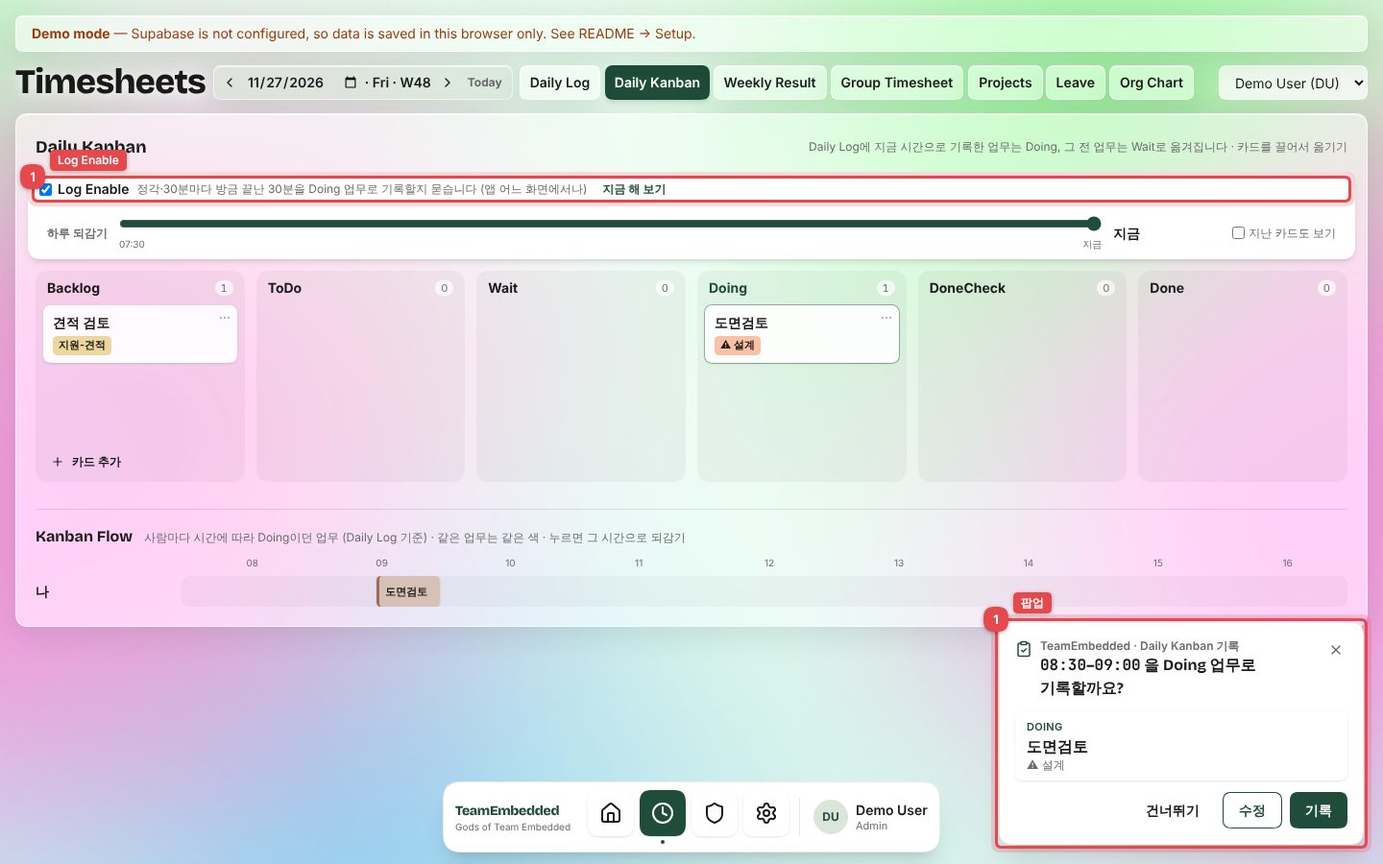
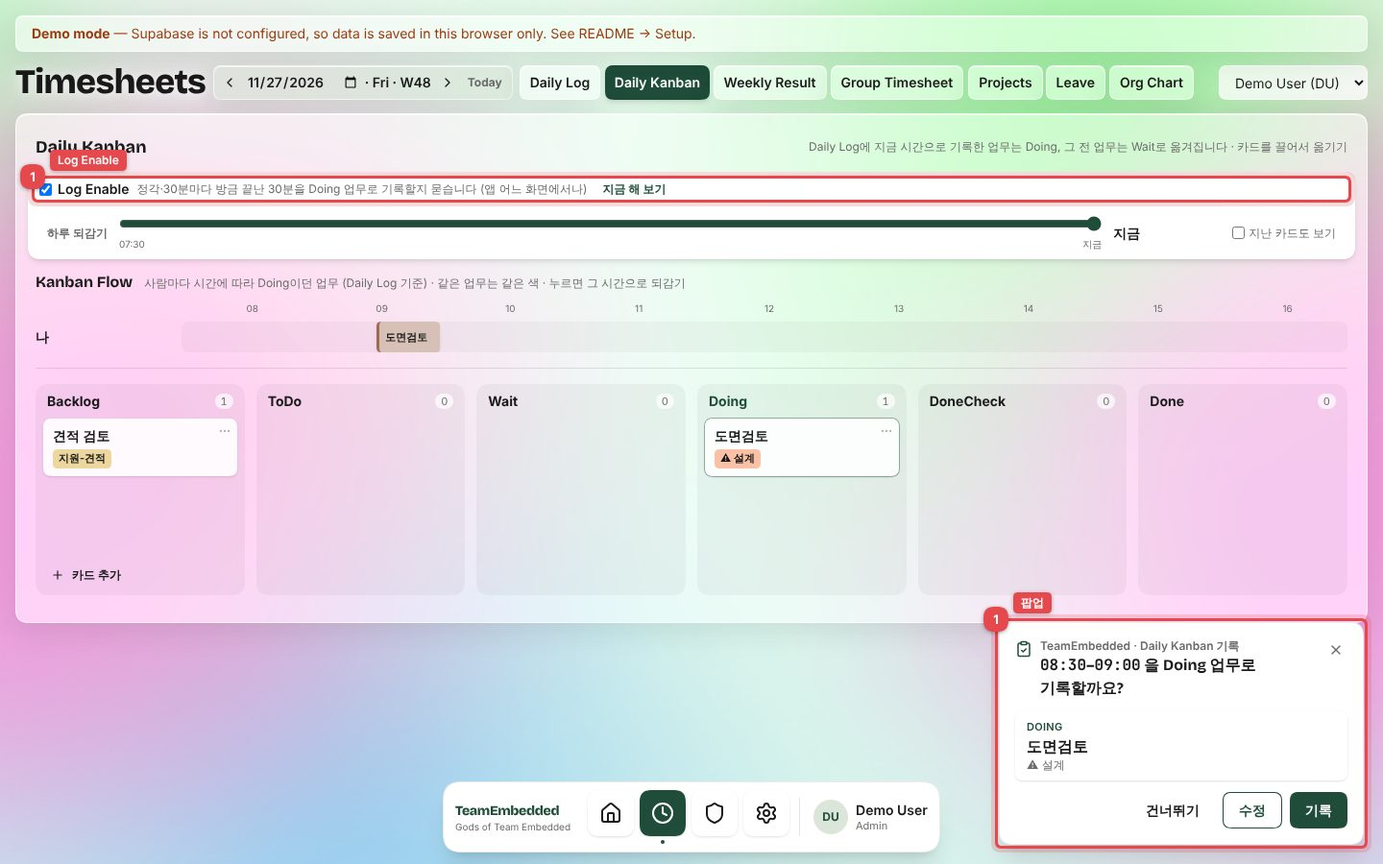
Verification reports: Kanban Flow above the board (commit d6e118c)
Claude-Session: https://claude.ai/code/session_01A1L3RATWraiPWfjj96SejH

diff --git a/docs/test-reports/2026-11-27-kanban-flow/index.html b/docs/test-reports/2026-11-27-kanban-flow/index.html
@@ -49,10 +49,10 @@ a { color: var(--accent) } a:focus-visible, summary:focus-visible { outline: 2px
 @media (max-width: 640px) { dl { grid-template-columns: 1fr } h1 { font-size: 1.5rem } }
 </style></head><body><div class="wrap">
 <header class="head"><a href="../index.html" class="eyebrow">← 검증 보고서 목록</a><p class="eyebrow">검증 보고서 · E2E</p><h1>Daily Kanban: 그날의 카드, 하루 되감기, Kanban Flow</h1>
-<div class="meta"><span>날짜 2026-11-27</span><span>커밋 <code>db783e8</code></span><span>스위트 <code>tests/e2e/batchV.e2e.cjs</code></span><span>Chromium 157.0.8103.78 · 1440×900, 시계 2026-11-27 16:10 고정(어제 기록은 2026-11-26 16:00), 데모 모드</span><span>데모 모드(가상 데이터)</span></div></header>
+<div class="meta"><span>날짜 2026-11-27</span><span>커밋 <code>d6e118c</code></span><span>스위트 <code>tests/e2e/batchV.e2e.cjs</code></span><span>Chromium 157.0.8103.78 · 1440×900, 시계 2026-11-27 16:10 고정(어제 기록은 2026-11-26 16:00), 데모 모드</span><span>데모 모드(가상 데이터)</span></div></header>
 <section class="summary" aria-label="결과 요약"><span class="pill pass">PASS</span><strong>7 / 7</strong><span>테스트 케이스 통과 · 증적 화면 4장</span></section>
-<section class="req"><div class="box"><h2>요청</h2><p>(버그) Daily Kanban은 그날의 내용을 보여 줘야 하는데 지난 데이터가 넘어온다. 칸반에 하루를 30분 간격으로 어떤 일을 Doing으로 했는지 스크롤을 옮기며 블록이 이동하는 것을 보는 UI. 칸반 아래 Kanban Flow: 30분 간격으로 선택된 사용자마다 어떻게 이동했는지 하루 전체 그래프.</p></div><div class="box"><h2>인수 기준</h2><ol><li>선택한 날짜의 카드만(그날 Daily Log에 기록됐거나 손으로 옮긴 카드) + Backlog·ToDo. 지난 카드는 &quot;지난 카드도 보기&quot;로만.</li><li>하루 되감기: 슬라이더를 30분씩 옮기면 그 시점의 보드(Daily Log 기준: 그 칸의 업무가 Doing, 이전 업무는 Wait), 손으로 옮긴 카드는 옮긴 시각에. 그 30분에 옮겨진 카드는 노란 테두리, 되감기 중에는 읽기 전용.</li><li>Kanban Flow: Doing만. 나와 체크한 팀원마다 한 줄, 시간에 따라 Doing이던 업무를 이름 붙은 블록으로(같은 업무는 같은 색). 누르면 그 시간으로 되감기.</li><li>지난 날짜는 그날 하루가 끝났을 때의 보드(읽기 전용).</li></ol></div></section>
-<section style="display:grid;gap:12px"><h2>테스트 케이스</h2><div class="tablewrap"><table><thead><tr><th>#</th><th>테스트 케이스</th><th>기대 결과</th><th>실제 결과</th><th>판정 근거 (Assertion)</th><th>결과</th><th>증적</th></tr></thead><tbody><tr class=""><td class="n"><a href="#shot-1" title="증적 보기">1</a></td><td>그날의 카드만 (지난 카드는 &quot;지난 카드도 보기&quot;로만)</td><td>오늘 보드: Doing '도면검토', Done '8D 보고', 어제의 '지난주 이슈' 없음; 지난 카드도 보기 → Wait에 '지난주 이슈'</td><td>오늘 Doing [도면검토], Done [8D 보고], Wait [] · 지난 카드 포함 Wait [지난주 이슈]</td><td><code>칸별 카드 제목, Show earlier cards 체크 전후</code></td><td><span class="pill pass">PASS</span></td><td><a href="#shot-1">화면 1</a></td></tr><tr class=""><td class="n"><a href="#shot-2" title="증적 보기">2</a></td><td>하루 되감기: 30분마다 Daily Log대로, 손으로 옮긴 건 옮긴 시각에</td><td>09:00 Doing '도면검토'(노란 테두리), 10:00 Doing '8D 보고'·Wait '도면검토', 14:30 Doing '도면검토'·Wait '8D 보고', 15:00 Done '8D 보고'(이 30분에 옮김), 되감기 중 메뉴 0개·끌기 불가</td><td>범위 0~18 · 09:00(09:00–09:30) Doing [도면검토] 테두리 [도면검토] · 10:00 Doing [8D 보고] Wait [도면검토] · 14:30 Doing [도면검토] Wait [8D 보고] · 15:00 Done [8D 보고] 테두리 [8D 보고] · 메뉴 0, draggable=false</td><td><code>슬라이더 위치별 칸 제목, data-moved, Options 버튼 수, draggable</code></td><td><span class="pill pass">PASS</span></td><td><a href="#shot-2">화면 2</a></td></tr><tr class=""><td class="n"><a href="#shot-3" title="증적 보기">3</a></td><td>Kanban Flow: Doing만, 사람마다 한 줄에 업무 블록 · 누르면 그 시간으로</td><td>나: 도면검토 09:00(2칸) → 8D 보고 10:00(6칸, 점심 포함) → 도면검토 13:00(끝까지 7칸), Wait·Done 같은 다른 칸 정보 없음, 8D 블록의 4번째 칸을 누르면 '11:30–12:00'</td><td>나 [도면검토@18+2,8D 보고@20+6,도면검토@26+7] · 다른 칸 표시 0개 · 누른 뒤 '11:30–12:00'</td><td><code>flow-block 의 data-task·data-start·data-len, data-status 요소 0개, 누른 뒤 replay-time</code></td><td><span class="pill pass">PASS</span></td><td><a href="#shot-3">화면 3</a></td></tr><tr class=""><td class="n">4</td><td>체크한 팀원도 Flow에 한 줄씩, 되감기에도 함께</td><td>Flow 사람 [나, 윤도현], 윤도현: 도면 검토 09:00 → 설계 회의 11:00 → 3D 모델링 13:00, 11:00 되감기 Doing에 윤도현 '설계 회의'</td><td>사람 [나,윤도현] · 윤도현 [도면 검토@18,설계 회의@22,3D 모델링@26] · 11:00 윤도현 Doing [설계 회의]</td><td><code>flow-person / flow-block, 되감은 보드의 윤도현 블록</code></td><td><span class="pill pass">PASS</span></td><td>—</td></tr><tr class=""><td class="n"><a href="#shot-4" title="증적 보기">5</a></td><td>아래로 내려도 팀원 줄·되감기 슬라이더가 위에 고정 (틀고정처럼)</td><td>페이지를 내린 상태에서 막대 위치 0~20px, Kanban Flow가 화면 안에 보이고, 슬라이더로 13:00 → Flow에 13:00 시각 표시(굵은 테두리)</td><td>내린 거리 317px, 막대 y 8px, Flow y 303~443px, '13:00–13:30', Flow의 시각 표시 2개</td><td><code>window.scrollY &gt; 0 &amp;&amp; kanban-controls.y ∈ [0, 20] &amp;&amp; Flow 가 480px 화면 안 &amp;&amp; replay-time 13:00 &amp;&amp; flow-now 표시</code></td><td><span class="pill pass">PASS</span></td><td><a href="#shot-4">화면 4</a></td></tr><tr class=""><td class="n">6</td><td>지난 날짜: 그날 하루가 끝났을 때의 보드 (읽기 전용)</td><td>어제: Doing '지난주 이슈', 오늘 카드 없음, '하루 끝', 안내에 읽기 전용, 메뉴 0개</td><td>Doing [지난주 이슈], 전체 [지난주 이슈], '하루 끝', '2026-11-26 하루가 끝났을 때의 보드 · Daily Log 기준 · 읽기 전용', 메뉴 0</td><td><code>칸 제목, replay-time / replay-note, Options 버튼 수</code></td><td><span class="pill pass">PASS</span></td><td>—</td></tr><tr class=""><td class="n">7</td><td>페이지 오류 없음</td><td>0건</td><td>0건</td><td><code>pageerror 수 === 0</code></td><td><span class="pill pass">PASS</span></td><td>—</td></tr></tbody></table></div></section>
-<section class="shots"><h2>증적 (주석 스크린샷)</h2><p style="margin:0;color:var(--muted)">빨간 테두리와 번호는 표의 테스트 케이스 번호입니다. 그 요소를 확인해 판정했습니다.</p><figure id="shot-1"><img src="shot-01.jpg" alt="오늘의 보드: 어제 카드는 빠지고, 위에 하루 되감기 슬라이더" loading="lazy" width="1440" height="900"><figcaption><strong>화면 1. 오늘의 보드: 어제 카드는 빠지고, 위에 하루 되감기 슬라이더</strong><div class="marks"><span><span class="badge">1</span>그날의 카드만 (지난 카드는 &quot;지난 카드도 보기&quot;로만)</span><span><span class="badge">2</span>하루 되감기: 30분마다 Daily Log대로, 손으로 옮긴 건 옮긴 시각에</span></div></figcaption></figure><figure id="shot-2"><img src="shot-02.jpg" alt="15:00으로 되감기: 15:10에 손으로 옮긴 8D 보고가 Done (노란 테두리)" loading="lazy" width="1440" height="900"><figcaption><strong>화면 2. 15:00으로 되감기: 15:10에 손으로 옮긴 8D 보고가 Done (노란 테두리)</strong><div class="marks"><span><span class="badge">2</span>하루 되감기: 30분마다 Daily Log대로, 손으로 옮긴 건 옮긴 시각에</span></div></figcaption></figure><figure id="shot-3"><img src="shot-03.jpg" alt="Kanban Flow: 시간에 따라 Doing이던 업무만 (같은 업무는 같은 색), 굵은 테두리 = 되감은 시각" loading="lazy" width="1440" height="900"><figcaption><strong>화면 3. Kanban Flow: 시간에 따라 Doing이던 업무만 (같은 업무는 같은 색), 굵은 테두리 = 되감은 시각</strong><div class="marks"><span><span class="badge">3</span>Kanban Flow: Doing만, 사람마다 한 줄에 업무 블록 · 누르면 그 시간으로</span></div></figcaption></figure><figure id="shot-4"><img src="shot-04.jpg" alt="아래로 내려 Kanban Flow를 보면서 위에 고정된 슬라이더로 되감기" loading="lazy" width="1440" height="480"><figcaption><strong>화면 4. 아래로 내려 Kanban Flow를 보면서 위에 고정된 슬라이더로 되감기</strong><div class="marks"><span><span class="badge">5</span>아래로 내려도 팀원 줄·되감기 슬라이더가 위에 고정 (틀고정처럼)</span><span><span class="badge">5</span>아래로 내려도 팀원 줄·되감기 슬라이더가 위에 고정 (틀고정처럼)</span></div></figcaption></figure></section>
+<section class="req"><div class="box"><h2>요청</h2><p>(버그) Daily Kanban은 그날의 내용을 보여 줘야 하는데 지난 데이터가 넘어온다. 칸반에 하루를 30분 간격으로 어떤 일을 Doing으로 했는지 스크롤을 옮기며 블록이 이동하는 것을 보는 UI. 칸반 아래 Kanban Flow: 30분 간격으로 선택된 사용자마다 어떻게 이동했는지 하루 전체 그래프.</p></div><div class="box"><h2>인수 기준</h2><ol><li>선택한 날짜의 카드만(그날 Daily Log에 기록됐거나 손으로 옮긴 카드) + Backlog·ToDo. 지난 카드는 &quot;지난 카드도 보기&quot;로만.</li><li>하루 되감기: 슬라이더를 30분씩 옮기면 그 시점의 보드(Daily Log 기준: 그 칸의 업무가 Doing, 이전 업무는 Wait), 손으로 옮긴 카드는 옮긴 시각에. 그 30분에 옮겨진 카드는 노란 테두리, 되감기 중에는 읽기 전용.</li><li>Kanban Flow(되감기 막대 바로 아래, 보드 위): Doing만. 나와 체크한 팀원마다 한 줄, 시간에 따라 Doing이던 업무를 이름 붙은 블록으로(같은 업무는 같은 색). 누르면 그 시간으로 되감기.</li><li>지난 날짜는 그날 하루가 끝났을 때의 보드(읽기 전용).</li></ol></div></section>
+<section style="display:grid;gap:12px"><h2>테스트 케이스</h2><div class="tablewrap"><table><thead><tr><th>#</th><th>테스트 케이스</th><th>기대 결과</th><th>실제 결과</th><th>판정 근거 (Assertion)</th><th>결과</th><th>증적</th></tr></thead><tbody><tr class=""><td class="n"><a href="#shot-1" title="증적 보기">1</a></td><td>그날의 카드만 (지난 카드는 &quot;지난 카드도 보기&quot;로만)</td><td>오늘 보드: Doing '도면검토', Done '8D 보고', 어제의 '지난주 이슈' 없음; 지난 카드도 보기 → Wait에 '지난주 이슈'</td><td>오늘 Doing [도면검토], Done [8D 보고], Wait [] · 지난 카드 포함 Wait [지난주 이슈]</td><td><code>칸별 카드 제목, Show earlier cards 체크 전후</code></td><td><span class="pill pass">PASS</span></td><td><a href="#shot-1">화면 1</a></td></tr><tr class=""><td class="n"><a href="#shot-2" title="증적 보기">2</a></td><td>하루 되감기: 30분마다 Daily Log대로, 손으로 옮긴 건 옮긴 시각에</td><td>09:00 Doing '도면검토'(노란 테두리), 10:00 Doing '8D 보고'·Wait '도면검토', 14:30 Doing '도면검토'·Wait '8D 보고', 15:00 Done '8D 보고'(이 30분에 옮김), 되감기 중 메뉴 0개·끌기 불가</td><td>범위 0~18 · 09:00(09:00–09:30) Doing [도면검토] 테두리 [도면검토] · 10:00 Doing [8D 보고] Wait [도면검토] · 14:30 Doing [도면검토] Wait [8D 보고] · 15:00 Done [8D 보고] 테두리 [8D 보고] · 메뉴 0, draggable=false</td><td><code>슬라이더 위치별 칸 제목, data-moved, Options 버튼 수, draggable</code></td><td><span class="pill pass">PASS</span></td><td><a href="#shot-2">화면 2</a></td></tr><tr class=""><td class="n"><a href="#shot-3" title="증적 보기">3</a></td><td>Kanban Flow: Doing만, 사람마다 한 줄에 업무 블록 · 누르면 그 시간으로</td><td>나: 도면검토 09:00(2칸) → 8D 보고 10:00(6칸, 점심 포함) → 도면검토 13:00(끝까지 7칸), Wait·Done 같은 다른 칸 정보 없음, 8D 블록의 4번째 칸을 누르면 '11:30–12:00'</td><td>나 [도면검토@18+2,8D 보고@20+6,도면검토@26+7] · 다른 칸 표시 0개 · 누른 뒤 '11:30–12:00'</td><td><code>flow-block 의 data-task·data-start·data-len, data-status 요소 0개, 누른 뒤 replay-time</code></td><td><span class="pill pass">PASS</span></td><td><a href="#shot-3">화면 3</a></td></tr><tr class=""><td class="n">4</td><td>체크한 팀원도 Flow에 한 줄씩, 되감기에도 함께</td><td>Flow 사람 [나, 윤도현], 윤도현: 도면 검토 09:00 → 설계 회의 11:00 → 3D 모델링 13:00, 11:00 되감기 Doing에 윤도현 '설계 회의'</td><td>사람 [나,윤도현] · 윤도현 [도면 검토@18,설계 회의@22,3D 모델링@26] · 11:00 윤도현 Doing [설계 회의]</td><td><code>flow-person / flow-block, 되감은 보드의 윤도현 블록</code></td><td><span class="pill pass">PASS</span></td><td>—</td></tr><tr class=""><td class="n"><a href="#shot-4" title="증적 보기">5</a></td><td>위에서부터 되감기 막대 → Kanban Flow → 보드, 내려도 막대는 위에 고정</td><td>막대 &lt; Flow &lt; 보드 순서, Flow가 첫 화면(900px) 안에 다 보임 · 480px 화면에서 끝까지 내린 상태로 막대 위치 0~20px, 보드가 화면 안, 슬라이더로 13:00 → Flow에 13:00 시각 표시</td><td>막대 y 179 · Flow y 372~512 · 보드 y 528 · 내린 거리 313px, 막대 y 8px, 보드 y 215px, '13:00–13:30', Flow의 시각 표시 2개</td><td><code>kanban-controls / kanban-flow / kanban-board 의 y 순서, Flow 아래 끝 ≤ 900 · window.scrollY &gt; 0 &amp;&amp; kanban-controls.y ∈ [0, 20] &amp;&amp; 보드가 480px 화면 안 &amp;&amp; replay-time 13:00 &amp;&amp; flow-now 표시</code></td><td><span class="pill pass">PASS</span></td><td><a href="#shot-4">화면 4</a></td></tr><tr class=""><td class="n">6</td><td>지난 날짜: 그날 하루가 끝났을 때의 보드 (읽기 전용)</td><td>어제: Doing '지난주 이슈', 오늘 카드 없음, '하루 끝', 안내에 읽기 전용, 메뉴 0개</td><td>Doing [지난주 이슈], 전체 [지난주 이슈], '하루 끝', '2026-11-26 하루가 끝났을 때의 보드 · Daily Log 기준 · 읽기 전용', 메뉴 0</td><td><code>칸 제목, replay-time / replay-note, Options 버튼 수</code></td><td><span class="pill pass">PASS</span></td><td>—</td></tr><tr class=""><td class="n">7</td><td>페이지 오류 없음</td><td>0건</td><td>0건</td><td><code>pageerror 수 === 0</code></td><td><span class="pill pass">PASS</span></td><td>—</td></tr></tbody></table></div></section>
+<section class="shots"><h2>증적 (주석 스크린샷)</h2><p style="margin:0;color:var(--muted)">빨간 테두리와 번호는 표의 테스트 케이스 번호입니다. 그 요소를 확인해 판정했습니다.</p><figure id="shot-1"><img src="shot-01.jpg" alt="오늘의 보드: 어제 카드는 빠지고, 위에 하루 되감기 슬라이더" loading="lazy" width="1440" height="900"><figcaption><strong>화면 1. 오늘의 보드: 어제 카드는 빠지고, 위에 하루 되감기 슬라이더</strong><div class="marks"><span><span class="badge">1</span>그날의 카드만 (지난 카드는 &quot;지난 카드도 보기&quot;로만)</span><span><span class="badge">2</span>하루 되감기: 30분마다 Daily Log대로, 손으로 옮긴 건 옮긴 시각에</span></div></figcaption></figure><figure id="shot-2"><img src="shot-02.jpg" alt="15:00으로 되감기: 15:10에 손으로 옮긴 8D 보고가 Done (노란 테두리)" loading="lazy" width="1440" height="900"><figcaption><strong>화면 2. 15:00으로 되감기: 15:10에 손으로 옮긴 8D 보고가 Done (노란 테두리)</strong><div class="marks"><span><span class="badge">2</span>하루 되감기: 30분마다 Daily Log대로, 손으로 옮긴 건 옮긴 시각에</span></div></figcaption></figure><figure id="shot-3"><img src="shot-03.jpg" alt="Kanban Flow: 시간에 따라 Doing이던 업무만 (같은 업무는 같은 색), 굵은 테두리 = 되감은 시각" loading="lazy" width="1440" height="900"><figcaption><strong>화면 3. Kanban Flow: 시간에 따라 Doing이던 업무만 (같은 업무는 같은 색), 굵은 테두리 = 되감은 시각</strong><div class="marks"><span><span class="badge">3</span>Kanban Flow: Doing만, 사람마다 한 줄에 업무 블록 · 누르면 그 시간으로</span></div></figcaption></figure><figure id="shot-4"><img src="shot-04.jpg" alt="아래로 내려 보드를 보면서도 위에 고정된 막대로 되감기" loading="lazy" width="1440" height="480"><figcaption><strong>화면 4. 아래로 내려 보드를 보면서도 위에 고정된 막대로 되감기</strong><div class="marks"><span><span class="badge">5</span>위에서부터 되감기 막대 → Kanban Flow → 보드, 내려도 막대는 위에 고정</span><span><span class="badge">5</span>위에서부터 되감기 막대 → Kanban Flow → 보드, 내려도 막대는 위에 고정</span></div></figcaption></figure></section>
 <details><summary>용어</summary><dl><dt>테스트 리포트 (Test Report)</dt><dd>무엇을 어떻게 확인했고 결과가 어땠는지 정리한 검증 보고서. 이 문서.</dd><dt>테스트 케이스 (Test Case)</dt><dd>확인 항목 하나. 표의 한 줄.</dd><dt>인수 기준 (Acceptance Criteria)</dt><dd>요청이 &quot;다 됐다&quot;고 볼 조건. 테스트 케이스는 여기서 나온다.</dd><dt>기대 결과 / 실제 결과 (Expected / Actual)</dt><dd>나와야 하는 것과 실제로 나온 것. 판정 근거의 조건을 만족하면 PASS.</dd><dt>단언 (Assertion)</dt><dd>판정 조건을 코드로 쓴 것. 표의 &quot;판정 근거&quot; 열.</dd><dt>증적 (Test Evidence)</dt><dd>통과를 보여 주는 증거. 여기서는 주석 스크린샷.</dd><dt>주석 스크린샷 (Annotated Screenshot)</dt><dd>확인한 요소에 빨간 테두리와 테스트 케이스 번호를 그린 화면.</dd><dt>E2E 테스트 (End-to-End)</dt><dd>실제 브라우저(Chromium)로 사용자처럼 눌러 보며 확인하는 테스트. 이 보고서의 테스트.</dd><dt>단위 테스트 (Unit Test)</dt><dd>함수 하나를 따로 확인하는 테스트(npm test).</dd><dt>회귀 테스트 (Regression Test)</dt><dd>새 기능 때문에 예전 기능이 깨지지 않았는지 전체를 다시 돌리는 것(npm run test:e2e).</dd><dt>추적성 (Traceability)</dt><dd>요청 ↔ 테스트 ↔ 커밋을 서로 찾아갈 수 있게 연결해 두는 것. 머리말의 커밋·스위트 정보.</dd></dl></details>
 </div></body></html>

diff --git a/docs/test-reports/index.html b/docs/test-reports/index.html
@@ -47,5 +47,5 @@ dl { display: grid; grid-template-columns: max-content 1fr; gap: 6px 18px; margi
 a { color: var(--accent) } a:focus-visible, summary:focus-visible { outline: 2px solid var(--accent); outline-offset: 2px }
 .list { display: grid; gap: 12px } .row { display: flex; flex-wrap: wrap; gap: 8px 16px; align-items: baseline; justify-content: space-between }
 @media (max-width: 640px) { dl { grid-template-columns: 1fr } h1 { font-size: 1.5rem } }
-</style></head><body><div class="wrap"><header class="head"><p class="eyebrow">TeamEmbedded · 검증 기록</p><h1>검증 보고서</h1><p style="margin:0;color:var(--muted);max-width:68ch">기능마다 무엇을 확인했고 어떻게 PASS로 판정했는지, 확인한 화면에 표시해 남긴 기록입니다. 브라우저 테스트(<code>npm run test:e2e</code>)를 <code>REPORT=1</code>로 돌리면 다시 만들어집니다.</p></header><div class="list"><a class="box" href="2026-11-27-ai-cleanup/index.html" style="text-decoration:none;color:inherit"><div class="row"><h2>AI 정리 + 수정 제안(diff)</h2><span class="pill pass">9 / 9 PASS</span></div><p style="margin:6px 0 0;color:var(--muted)">2026-11-27 · 커밋 <code>a98cc14</code> · 증적 5장 · <code>tests/e2e/batchU.e2e.cjs</code></p></a><a class="box" href="2026-11-27-kanban-team/index.html" style="text-decoration:none;color:inherit"><div class="row"><h2>Daily Kanban 팀원 보기 (Doing + 아바타) + 사람별 색</h2><span class="pill pass">7 / 7 PASS</span></div><p style="margin:6px 0 0;color:var(--muted)">2026-11-27 · 커밋 <code>db783e8</code> · 증적 2장 · <code>tests/e2e/batchT.e2e.cjs</code></p></a><a class="box" href="2026-11-27-kanban-log/index.html" style="text-decoration:none;color:inherit"><div class="row"><h2>Daily Kanban: Log Enable — 30분마다 Doing 업무를 Daily Log에 기록</h2><span class="pill pass">7 / 7 PASS</span></div><p style="margin:6px 0 0;color:var(--muted)">2026-11-27 · 커밋 <code>db783e8</code> · 증적 5장 · <code>tests/e2e/batchW.e2e.cjs</code></p></a><a class="box" href="2026-11-27-kanban-flow/index.html" style="text-decoration:none;color:inherit"><div class="row"><h2>Daily Kanban: 그날의 카드, 하루 되감기, Kanban Flow</h2><span class="pill pass">7 / 7 PASS</span></div><p style="margin:6px 0 0;color:var(--muted)">2026-11-27 · 커밋 <code>db783e8</code> · 증적 4장 · <code>tests/e2e/batchV.e2e.cjs</code></p></a><a class="box" href="2026-11-27-org-access/index.html" style="text-decoration:none;color:inherit"><div class="row"><h2>단계별 열람 권한 + 조직도</h2><span class="pill pass">13 / 13 PASS</span></div><p style="margin:6px 0 0;color:var(--muted)">2026-11-27 · 커밋 <code>5816a53</code> · 증적 4장 · <code>tests/e2e/batchS.e2e.cjs</code></p></a><a class="box" href="2026-11-26-kanban/index.html" style="text-decoration:none;color:inherit"><div class="row"><h2>Daily Kanban (Daily Log와 연동)</h2><span class="pill pass">10 / 10 PASS</span></div><p style="margin:6px 0 0;color:var(--muted)">2026-11-26 · 커밋 <code>f5d5a68</code> · 증적 4장 · <code>tests/e2e/batchR.e2e.cjs</code></p></a><a class="box" href="2026-11-26-dock/index.html" style="text-decoration:none;color:inherit"><div class="row"><h2>Dock 메뉴 (아래 가운데, 자동 숨김)</h2><span class="pill pass">11 / 11 PASS</span></div><p style="margin:6px 0 0;color:var(--muted)">2026-11-26 · 커밋 <code>873f7ac</code> · 증적 3장 · <code>tests/e2e/batchM.e2e.cjs</code></p></a><a class="box" href="2026-11-26-quick-slots/index.html" style="text-decoration:none;color:inherit"><div class="row"><h2>Quick add 프리셋 슬롯 4개 · 드롭다운 번호 간격</h2><span class="pill pass">8 / 8 PASS</span></div><p style="margin:6px 0 0;color:var(--muted)">2026-11-26 · 커밋 <code>88f6abc</code> · 증적 3장 · <code>tests/e2e/batchQ.e2e.cjs</code></p></a><a class="box" href="2026-11-26-mid/index.html" style="text-decoration:none;color:inherit"><div class="row"><h2>Type(유형) 칸 · 행 + 버튼</h2><span class="pill pass">23 / 23 PASS</span></div><p style="margin:6px 0 0;color:var(--muted)">2026-11-26 · 커밋 <code>873f7ac</code> · 증적 10장 · <code>tests/e2e/batchL.e2e.cjs</code></p></a><a class="box" href="2026-11-26-type-prefs/index.html" style="text-decoration:none;color:inherit"><div class="row"><h2>드롭다운 잘림 수정 · Type 순서·색 (개인)</h2><span class="pill pass">9 / 9 PASS</span></div><p style="margin:6px 0 0;color:var(--muted)">2026-11-26 · 커밋 <code>873f7ac</code> · 증적 4장 · <code>tests/e2e/batchP.e2e.cjs</code></p></a><a class="box" href="2026-11-26-templates-table/index.html" style="text-decoration:none;color:inherit"><div class="row"><h2>반복 업무 표 · 칸 이름 Project/Type/Task · + 칸 줄</h2><span class="pill pass">11 / 11 PASS</span></div><p style="margin:6px 0 0;color:var(--muted)">2026-11-26 · 커밋 <code>873f7ac</code> · 증적 6장 · <code>tests/e2e/batchN.e2e.cjs</code></p></a><a class="box" href="2026-11-26-layout/index.html" style="text-decoration:none;color:inherit"><div class="row"><h2>창 배치 편집 · 오른쪽 Dock · Today 그래프 · 자동 줄바꿈 · 빠른 등록</h2><span class="pill pass">22 / 22 PASS</span></div><p style="margin:6px 0 0;color:var(--muted)">2026-11-26 · 커밋 <code>f5d5a68</code> · 증적 10장 · <code>tests/e2e/batchO.e2e.cjs</code></p></a></div>
+</style></head><body><div class="wrap"><header class="head"><p class="eyebrow">TeamEmbedded · 검증 기록</p><h1>검증 보고서</h1><p style="margin:0;color:var(--muted);max-width:68ch">기능마다 무엇을 확인했고 어떻게 PASS로 판정했는지, 확인한 화면에 표시해 남긴 기록입니다. 브라우저 테스트(<code>npm run test:e2e</code>)를 <code>REPORT=1</code>로 돌리면 다시 만들어집니다.</p></header><div class="list"><a class="box" href="2026-11-27-ai-cleanup/index.html" style="text-decoration:none;color:inherit"><div class="row"><h2>AI 정리 + 수정 제안(diff)</h2><span class="pill pass">9 / 9 PASS</span></div><p style="margin:6px 0 0;color:var(--muted)">2026-11-27 · 커밋 <code>a98cc14</code> · 증적 5장 · <code>tests/e2e/batchU.e2e.cjs</code></p></a><a class="box" href="2026-11-27-kanban-team/index.html" style="text-decoration:none;color:inherit"><div class="row"><h2>Daily Kanban 팀원 보기 (Doing + 아바타) + 사람별 색</h2><span class="pill pass">7 / 7 PASS</span></div><p style="margin:6px 0 0;color:var(--muted)">2026-11-27 · 커밋 <code>d6e118c</code> · 증적 2장 · <code>tests/e2e/batchT.e2e.cjs</code></p></a><a class="box" href="2026-11-27-kanban-log/index.html" style="text-decoration:none;color:inherit"><div class="row"><h2>Daily Kanban: Log Enable — 30분마다 Doing 업무를 Daily Log에 기록</h2><span class="pill pass">7 / 7 PASS</span></div><p style="margin:6px 0 0;color:var(--muted)">2026-11-27 · 커밋 <code>d6e118c</code> · 증적 5장 · <code>tests/e2e/batchW.e2e.cjs</code></p></a><a class="box" href="2026-11-27-kanban-flow/index.html" style="text-decoration:none;color:inherit"><div class="row"><h2>Daily Kanban: 그날의 카드, 하루 되감기, Kanban Flow</h2><span class="pill pass">7 / 7 PASS</span></div><p style="margin:6px 0 0;color:var(--muted)">2026-11-27 · 커밋 <code>d6e118c</code> · 증적 4장 · <code>tests/e2e/batchV.e2e.cjs</code></p></a><a class="box" href="2026-11-27-org-access/index.html" style="text-decoration:none;color:inherit"><div class="row"><h2>단계별 열람 권한 + 조직도</h2><span class="pill pass">13 / 13 PASS</span></div><p style="margin:6px 0 0;color:var(--muted)">2026-11-27 · 커밋 <code>5816a53</code> · 증적 4장 · <code>tests/e2e/batchS.e2e.cjs</code></p></a><a class="box" href="2026-11-26-kanban/index.html" style="text-decoration:none;color:inherit"><div class="row"><h2>Daily Kanban (Daily Log와 연동)</h2><span class="pill pass">10 / 10 PASS</span></div><p style="margin:6px 0 0;color:var(--muted)">2026-11-26 · 커밋 <code>f5d5a68</code> · 증적 4장 · <code>tests/e2e/batchR.e2e.cjs</code></p></a><a class="box" href="2026-11-26-dock/index.html" style="text-decoration:none;color:inherit"><div class="row"><h2>Dock 메뉴 (아래 가운데, 자동 숨김)</h2><span class="pill pass">11 / 11 PASS</span></div><p style="margin:6px 0 0;color:var(--muted)">2026-11-26 · 커밋 <code>873f7ac</code> · 증적 3장 · <code>tests/e2e/batchM.e2e.cjs</code></p></a><a class="box" href="2026-11-26-quick-slots/index.html" style="text-decoration:none;color:inherit"><div class="row"><h2>Quick add 프리셋 슬롯 4개 · 드롭다운 번호 간격</h2><span class="pill pass">8 / 8 PASS</span></div><p style="margin:6px 0 0;color:var(--muted)">2026-11-26 · 커밋 <code>88f6abc</code> · 증적 3장 · <code>tests/e2e/batchQ.e2e.cjs</code></p></a><a class="box" href="2026-11-26-mid/index.html" style="text-decoration:none;color:inherit"><div class="row"><h2>Type(유형) 칸 · 행 + 버튼</h2><span class="pill pass">23 / 23 PASS</span></div><p style="margin:6px 0 0;color:var(--muted)">2026-11-26 · 커밋 <code>873f7ac</code> · 증적 10장 · <code>tests/e2e/batchL.e2e.cjs</code></p></a><a class="box" href="2026-11-26-type-prefs/index.html" style="text-decoration:none;color:inherit"><div class="row"><h2>드롭다운 잘림 수정 · Type 순서·색 (개인)</h2><span class="pill pass">9 / 9 PASS</span></div><p style="margin:6px 0 0;color:var(--muted)">2026-11-26 · 커밋 <code>873f7ac</code> · 증적 4장 · <code>tests/e2e/batchP.e2e.cjs</code></p></a><a class="box" href="2026-11-26-templates-table/index.html" style="text-decoration:none;color:inherit"><div class="row"><h2>반복 업무 표 · 칸 이름 Project/Type/Task · + 칸 줄</h2><span class="pill pass">11 / 11 PASS</span></div><p style="margin:6px 0 0;color:var(--muted)">2026-11-26 · 커밋 <code>873f7ac</code> · 증적 6장 · <code>tests/e2e/batchN.e2e.cjs</code></p></a><a class="box" href="2026-11-26-layout/index.html" style="text-decoration:none;color:inherit"><div class="row"><h2>창 배치 편집 · 오른쪽 Dock · Today 그래프 · 자동 줄바꿈 · 빠른 등록</h2><span class="pill pass">22 / 22 PASS</span></div><p style="margin:6px 0 0;color:var(--muted)">2026-11-26 · 커밋 <code>f5d5a68</code> · 증적 10장 · <code>tests/e2e/batchO.e2e.cjs</code></p></a></div>
 <details><summary>용어</summary><dl><dt>테스트 리포트 (Test Report)</dt><dd>무엇을 어떻게 확인했고 결과가 어땠는지 정리한 검증 보고서. 이 문서.</dd><dt>테스트 케이스 (Test Case)</dt><dd>확인 항목 하나. 표의 한 줄.</dd><dt>인수 기준 (Acceptance Criteria)</dt><dd>요청이 &quot;다 됐다&quot;고 볼 조건. 테스트 케이스는 여기서 나온다.</dd><dt>기대 결과 / 실제 결과 (Expected / Actual)</dt><dd>나와야 하는 것과 실제로 나온 것. 판정 근거의 조건을 만족하면 PASS.</dd><dt>단언 (Assertion)</dt><dd>판정 조건을 코드로 쓴 것. 표의 &quot;판정 근거&quot; 열.</dd><dt>증적 (Test Evidence)</dt><dd>통과를 보여 주는 증거. 여기서는 주석 스크린샷.</dd><dt>주석 스크린샷 (Annotated Screenshot)</dt><dd>확인한 요소에 빨간 테두리와 테스트 케이스 번호를 그린 화면.</dd><dt>E2E 테스트 (End-to-End)</dt><dd>실제 브라우저(Chromium)로 사용자처럼 눌러 보며 확인하는 테스트. 이 보고서의 테스트.</dd><dt>단위 테스트 (Unit Test)</dt><dd>함수 하나를 따로 확인하는 테스트(npm test).</dd><dt>회귀 테스트 (Regression Test)</dt><dd>새 기능 때문에 예전 기능이 깨지지 않았는지 전체를 다시 돌리는 것(npm run test:e2e).</dd><dt>추적성 (Traceability)</dt><dd>요청 ↔ 테스트 ↔ 커밋을 서로 찾아갈 수 있게 연결해 두는 것. 머리말의 커밋·스위트 정보.</dd></dl></details></div></body></html>

diff --git a/docs/test-reports/2026-11-27-kanban-log/index.html b/docs/test-reports/2026-11-27-kanban-log/index.html
@@ -49,7 +49,7 @@ a { color: var(--accent) } a:focus-visible, summary:focus-visible { outline: 2px
 @media (max-width: 640px) { dl { grid-template-columns: 1fr } h1 { font-size: 1.5rem } }
 </style></head><body><div class="wrap">
 <header class="head"><a href="../index.html" class="eyebrow">← 검증 보고서 목록</a><p class="eyebrow">검증 보고서 · E2E</p><h1>Daily Kanban: Log Enable — 30분마다 Doing 업무를 Daily Log에 기록</h1>
-<div class="meta"><span>날짜 2026-11-27</span><span>커밋 <code>db783e8</code></span><span>스위트 <code>tests/e2e/batchW.e2e.cjs</code></span><span>Chromium 157.0.8103.78 · 1440×900, 가짜 시계 2026-11-27(금) 09:20부터 흐름, 데모 모드(근무 07:30–16:30, 점심 12:00–13:00)</span><span>데모 모드(가상 데이터)</span></div></header>
+<div class="meta"><span>날짜 2026-11-27</span><span>커밋 <code>d6e118c</code></span><span>스위트 <code>tests/e2e/batchW.e2e.cjs</code></span><span>Chromium 157.0.8103.78 · 1440×900, 가짜 시계 2026-11-27(금) 09:20부터 흐름, 데모 모드(근무 07:30–16:30, 점심 12:00–13:00)</span><span>데모 모드(가상 데이터)</span></div></header>
 <section class="summary" aria-label="결과 요약"><span class="pill pass">PASS</span><strong>7 / 7</strong><span>테스트 케이스 통과 · 증적 화면 5장</span></section>
 <section class="req"><div class="box"><h2>요청</h2><p>Kanban 모드에서 Log Enable을 켜면 30분 정각·정시에 &quot;Doing에 있는 내용을 Log로 기록하겠습니까?&quot; 팝업을 띄워 간단히 클릭하게 하고, 다를 경우 수정 버튼으로 다른 업무를 Doing에 놓고 Daily Log에는 변경된 정보로 기록.</p></div><div class="box"><h2>인수 기준</h2><ol><li>Daily Kanban의 Log Enable을 켜면 정각·30분마다 방금 끝난 30분을 Doing 카드로 기록할지 묻는다 (앱 어느 화면에서나, 브라우저 알림도).</li><li>기록: 한 번 눌러 그 30분을 Doing 카드의 Project·Type·Task로 Daily Log에 저장.</li><li>수정: 다른 카드를 고르면 그 카드가 Doing으로 가고(원래 Doing은 Wait로) 그 업무로 기록.</li><li>건너뛰기: 아무것도 저장하지 않음. 이미 기록된 30분은 묻지 않음. 끄면 더 묻지 않음.</li></ol></div></section>
 <section style="display:grid;gap:12px"><h2>테스트 케이스</h2><div class="tablewrap"><table><thead><tr><th>#</th><th>테스트 케이스</th><th>기대 결과</th><th>실제 결과</th><th>판정 근거 (Assertion)</th><th>결과</th><th>증적</th></tr></thead><tbody><tr class=""><td class="n"><a href="#shot-1" title="증적 보기">1</a></td><td>Daily Kanban에 Log Enable · 켜면 안내와 &quot;지금 해 보기&quot;</td><td>끈 상태 안내 '켜면 …' → 켜면 '정각·30분마다 …' + 지금 해 보기 → 08:30–09:00 팝업, Doing 카드 '도면검토'</td><td>끈 상태 'Log Enable 켜면 정각·30분마다 Doing 업무를 Daily Log에 기록할지 묻습니다' → 켠 상태 'Log Enable 정각·30분마다 방금 끝난 30분을 Doing 업무로 기록할지 묻습니다 (앱 어느 화면에서나) 지금 해 보기' · 팝업 'TeamEmbedded · Daily Kanban 기록 / 08:30–09:00 을 Doing 업무로 기록할까요?' · Doing 'DOING 도면검토 ⚠ 설계'</td><td><code>kanban-log 글자, 지금 해 보기 → dialog &quot;Log the Doing card&quot; 와 doing-card</code></td><td><span class="pill pass">PASS</span></td><td><a href="#shot-1">화면 1</a></td></tr><tr class=""><td class="n"><a href="#shot-2" title="증적 보기">2</a></td><td>정각·30분마다 팝업 (이미 기록된 30분은 묻지 않음), 브라우저 알림도</td><td>09:30 팝업·알림 없음(09:00–09:30 기록됨) → 10:00 '09:30–10:00 을 Doing 업무로 기록할까요?', Doing '도면검토', 알림 'TeamEmbedded · Daily Kanban 기록'</td><td>09:30 팝업 0개·알림 0건 → 10:00 '09:30–10:00 을 Doing 업무로 기록할까요?' · Doing 'DOING 도면검토 ⚠ 설계' · 알림 'TeamEmbedded · Daily Kanban 기록: 09:30–10:00 업무를 기록해 주세요 (Doing 업무로 기록하기)'</td><td><code>clock.runFor 로 09:30·10:00 경계, dialog 수, window.__notes</code></td><td><span class="pill pass">PASS</span></td><td><a href="#shot-2">화면 2</a></td></tr><tr class=""><td class="n">3</td><td>기록: 한 번에 그 30분을 Doing 업무로 Daily Log에 저장</td><td>Daily Log 18 '도면검토', 19 '도면검토' · Doing 그대로 '도면검토' · Kanban Flow는 지금(10:00–10:30)까지만: 도면검토 09:00부터 3칸</td><td>Daily Log [18:도면검토,19:도면검토] · Doing [도면검토] · Flow [도면검토@18+3]</td><td><code>저장된 칸(slot_index:Task), 보드의 Doing, flow-block 의 data-start·data-len</code></td><td><span class="pill pass">PASS</span></td><td>—</td></tr><tr class=""><td class="n"><a href="#shot-4" title="증적 보기">4</a></td><td>수정: 고른 카드가 Doing으로, 원래 Doing은 Wait로, 그 업무로 기록</td><td>고를 목록에 '견적 검토 Backlog · 지원-견적' → 고른 뒤 Daily Log 20 '견적 검토', Doing '견적 검토', Wait '도면검토', Backlog 비어 있음</td><td>목록 [견적 검토 Backlog 지원-견적] → Daily Log [18:도면검토,19:도면검토,20:견적 검토] · Doing [견적 검토] · Wait [도면검토] · Backlog []</td><td><code>pick-card 글자, 저장된 칸, 보드 칸별 제목 (열린 보드가 바로 다시 읽힘)</code></td><td><span class="pill pass">PASS</span></td><td><a href="#shot-4">화면 4</a></td></tr><tr class=""><td class="n">5</td><td>앱 어디서나 (Daily Log 화면에서도) · 건너뛰기는 저장하지 않음</td><td>/timesheets 에서 '10:30–11:00' 팝업, Doing '견적 검토' · Daily Log 칸 19 도면검토, 20 견적 검토 · 건너뛰기 후 21 비어 있음</td><td>/timesheets '10:30–11:00 을 Doing 업무로 기록할까요?' · Doing 'DOING 견적 검토 지원-견적' · 칸 19 '도면검토', 20 '견적 검토' · 건너뛴 뒤 [18:도면검토,19:도면검토,20:견적 검토]</td><td><code>Daily Log 페이지에서 clock.runFor → dialog, grid 칸 글자, 저장된 칸</code></td><td><span class="pill pass">PASS</span></td><td>—</td></tr><tr class=""><td class="n">6</td><td>끄면 더 묻지 않음 (설정은 저장됨)</td><td>11:30 팝업 0개, 30분 알림 창 0개, 새 브라우저 알림 0건, 저장된 kanbanLog false</td><td>팝업 0개, 30분 알림 창 0개, 새 알림 0건, kanbanLog false</td><td><code>Log Enable 해제 후 clock.runFor 30분, dialog 수, window.__notes, 저장된 preferences</code></td><td><span class="pill pass">PASS</span></td><td>—</td></tr><tr class=""><td class="n">7</td><td>페이지 오류 없음</td><td>0건</td><td>0건</td><td><code>pageerror 수 === 0</code></td><td><span class="pill pass">PASS</span></td><td>—</td></tr></tbody></table></div></section>

diff --git a/docs/test-reports/2026-11-27-kanban-team/index.html b/docs/test-reports/2026-11-27-kanban-team/index.html
@@ -49,7 +49,7 @@ a { color: var(--accent) } a:focus-visible, summary:focus-visible { outline: 2px
 @media (max-width: 640px) { dl { grid-template-columns: 1fr } h1 { font-size: 1.5rem } }
 </style></head><body><div class="wrap">
 <header class="head"><a href="../index.html" class="eyebrow">← 검증 보고서 목록</a><p class="eyebrow">검증 보고서 · E2E</p><h1>Daily Kanban 팀원 보기 (Doing + 아바타) + 사람별 색</h1>
-<div class="meta"><span>날짜 2026-11-27</span><span>커밋 <code>db783e8</code></span><span>스위트 <code>tests/e2e/batchT.e2e.cjs</code></span><span>Chromium 157.0.8103.78 · 1440×900, 시계 2026-11-27 10:10 고정, 데모 모드(가상 팀원)</span><span>데모 모드(가상 데이터)</span></div></header>
+<div class="meta"><span>날짜 2026-11-27</span><span>커밋 <code>d6e118c</code></span><span>스위트 <code>tests/e2e/batchT.e2e.cjs</code></span><span>Chromium 157.0.8103.78 · 1440×900, 시계 2026-11-27 10:10 고정, 데모 모드(가상 팀원)</span><span>데모 모드(가상 데이터)</span></div></header>
 <section class="summary" aria-label="결과 요약"><span class="pill pass">PASS</span><strong>7 / 7</strong><span>테스트 케이스 통과 · 증적 화면 2장</span></section>
 <section class="req"><div class="box"><h2>요청</h2><p>Kanban에 있는 내용이 Doing으로 옮겨가고, 그 블록에 Figma 공동작업 UI처럼 사용자 아이콘이 붙게. 원하는 사용자를 다 체크해 두면 시간에 따라 어떤 Doing이 이루어지는지 볼 수 있게. (결정) 팀원 카드는 Doing일 때만, 같은 업무는 한 블록에 아이콘 여러 개.</p></div><div class="box"><h2>인수 기준</h2><ol><li>Daily Kanban 위 팀원 체크(볼 수 있는 사람만). 체크한 팀원은 Doing인 업무만 보이고, 블록에 그 사람 아이콘(이니셜 원, 그 사람 색).</li><li>같은 업무(Project · Type · Task)를 여러 사람이 Doing 중이면 한 블록에 아이콘이 여럿. 내 카드는 끌기·… 메뉴 그대로, 팀원만의 블록은 읽기만.</li><li>되감기 슬라이더를 옮기면 아이콘이 그 시간에 Doing이던 블록으로 옮겨 간다.</li><li>사람마다 색(나에게만 적용), 색으로 보기로 그 색 사람만. 체크와 색은 새로 고쳐도 그대로, 모두 해제하면 내 카드만.</li></ol></div></section>
 <section style="display:grid;gap:12px"><h2>테스트 케이스</h2><div class="tablewrap"><table><thead><tr><th>#</th><th>테스트 케이스</th><th>기대 결과</th><th>실제 결과</th><th>판정 근거 (Assertion)</th><th>결과</th><th>증적</th></tr></thead><tbody><tr class=""><td class="n"><a href="#shot-1" title="증적 보기">1</a></td><td>체크한 팀원은 Doing인 업무만, 블록에 그 사람 아이콘</td><td>체크 목록 5명, Doing: 부품 리스트 정리(서지아)·3D 모델링(윤도현), Wait에 팀원 카드 없음, 아이콘 글자 서·윤</td><td>목록 [한서윤,오하린,강민호,서지아,윤도현] · Doing [부품 리스트 정리@서지아,3D 모델링@윤도현] · Wait [] · 아이콘 [서,윤]</td><td><code>kanban-team 체크박스, Doing 칸 블록의 data-people, Wait 칸, avatar 글자</code></td><td><span class="pill pass">PASS</span></td><td><a href="#shot-1">화면 1</a></td></tr><tr class=""><td class="n"><a href="#shot-1" title="증적 보기">2</a></td><td>같은 업무를 여러 사람이 Doing → 한 블록에 아이콘 여럿</td><td>Doing의 '3D 모델링' 블록 1개, 아이콘 [나, 윤], 내 카드라 끌기·메뉴 있음; '부품 리스트 정리'(서지아만)는 끌기·메뉴 없음</td><td>블록 1개, 사람 '나,윤도현', 아이콘 [나,윤], 내 블록 draggable=true·메뉴 1, 서지아 블록 draggable=false·메뉴 0</td><td><code>data-people, avatar 글자, draggable, Options 버튼 수</code></td><td><span class="pill pass">PASS</span></td><td><a href="#shot-1">화면 1</a></td></tr><tr class=""><td class="n"><a href="#shot-2" title="증적 보기">3</a></td><td>슬라이더를 옮기면 아이콘이 그 시간의 Doing 블록으로</td><td>11:00: 3D 모델링@나 · 시험 지원@서지아 · 설계 회의@윤도현 / 13:00: 3D 모델링@나,윤도현 · 부품 리스트 정리@서지아</td><td>11:00 [3D 모델링@나,시험 지원@서지아,설계 회의@윤도현] / 13:00 [3D 모델링@나,윤도현,부품 리스트 정리@서지아]</td><td><code>되감은 Doing 칸의 블록과 data-people</code></td><td><span class="pill pass">PASS</span></td><td><a href="#shot-2">화면 2</a></td></tr><tr class=""><td class="n">4</td><td>사람 색(아이콘·팀원 창 같은 색), 색으로 보기</td><td>서지아 아이콘 rgb(212, 76, 71), Daily Log 팀원 창 점도 rgb(212, 76, 71); 서지아 색만 → 서지아 블록만(내 카드도 숨김)</td><td>아이콘 rgb(212, 76, 71), 팀원 창 rgb(212, 76, 71), 서지아만 [서지아]</td><td><code>avatar / 색 점 background-color, 색 필터 후 블록의 data-people</code></td><td><span class="pill pass">PASS</span></td><td>—</td></tr><tr class=""><td class="n">5</td><td>새로 고쳐도 체크 그대로, 모두 해제하면 내 카드만</td><td>체크 [서지아, 윤도현]; 해제 후 내 카드 1장(3D 모델링), 아이콘 0</td><td>체크 [서지아,윤도현]; 카드 1, 아이콘 0</td><td><code>checked 체크박스, kanban-card / avatar 수</code></td><td><span class="pill pass">PASS</span></td><td>—</td></tr><tr class=""><td class="n">6</td><td>볼 사람이 없으면(L1) 팀원 줄 없음</td><td>0개</td><td>0개</td><td><code>kanban-team 수 === 0</code></td><td><span class="pill pass">PASS</span></td><td>—</td></tr><tr class=""><td class="n">7</td><td>페이지 오류 없음</td><td>0건</td><td>0건</td><td><code>pageerror 수 === 0</code></td><td><span class="pill pass">PASS</span></td><td>—</td></tr></tbody></table></div></section>
